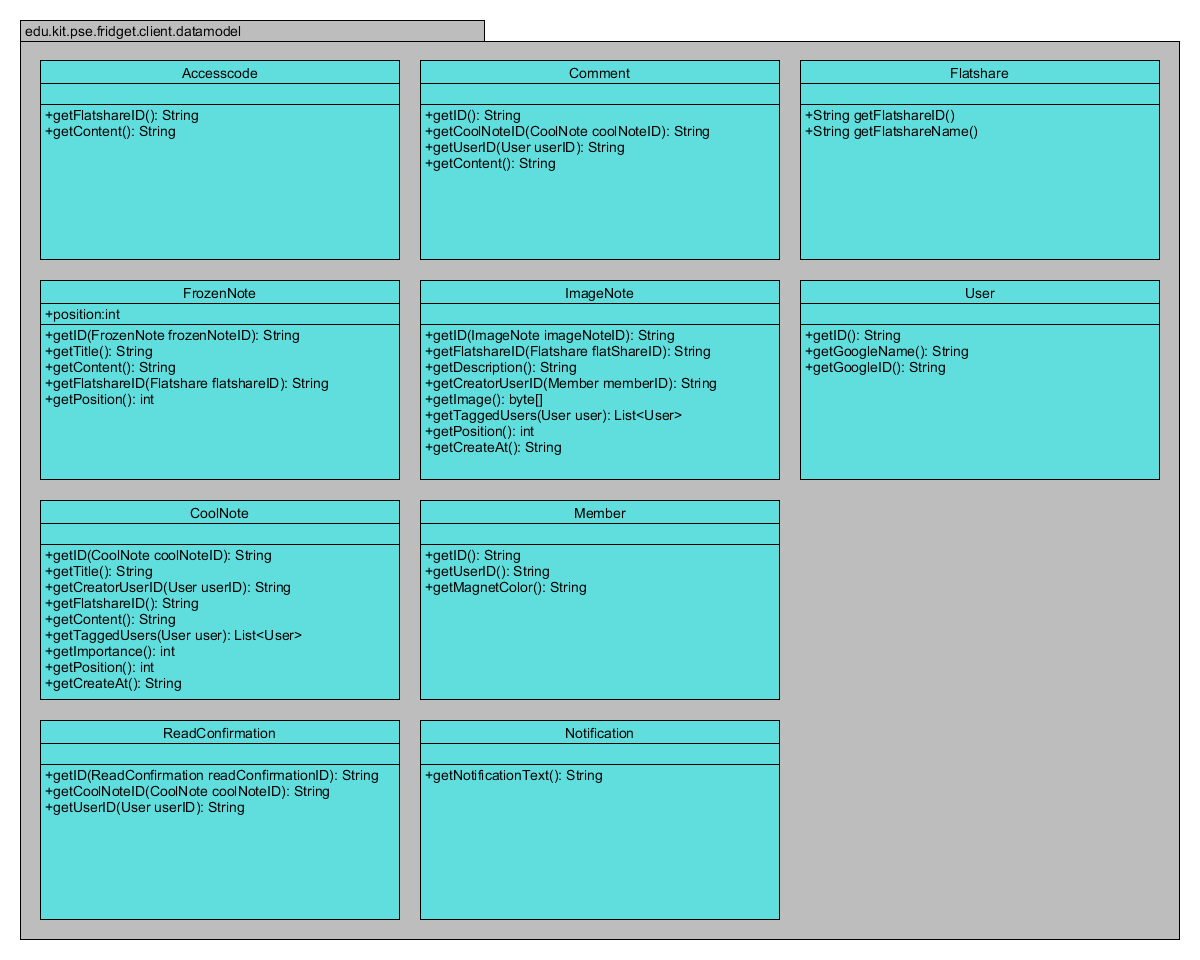
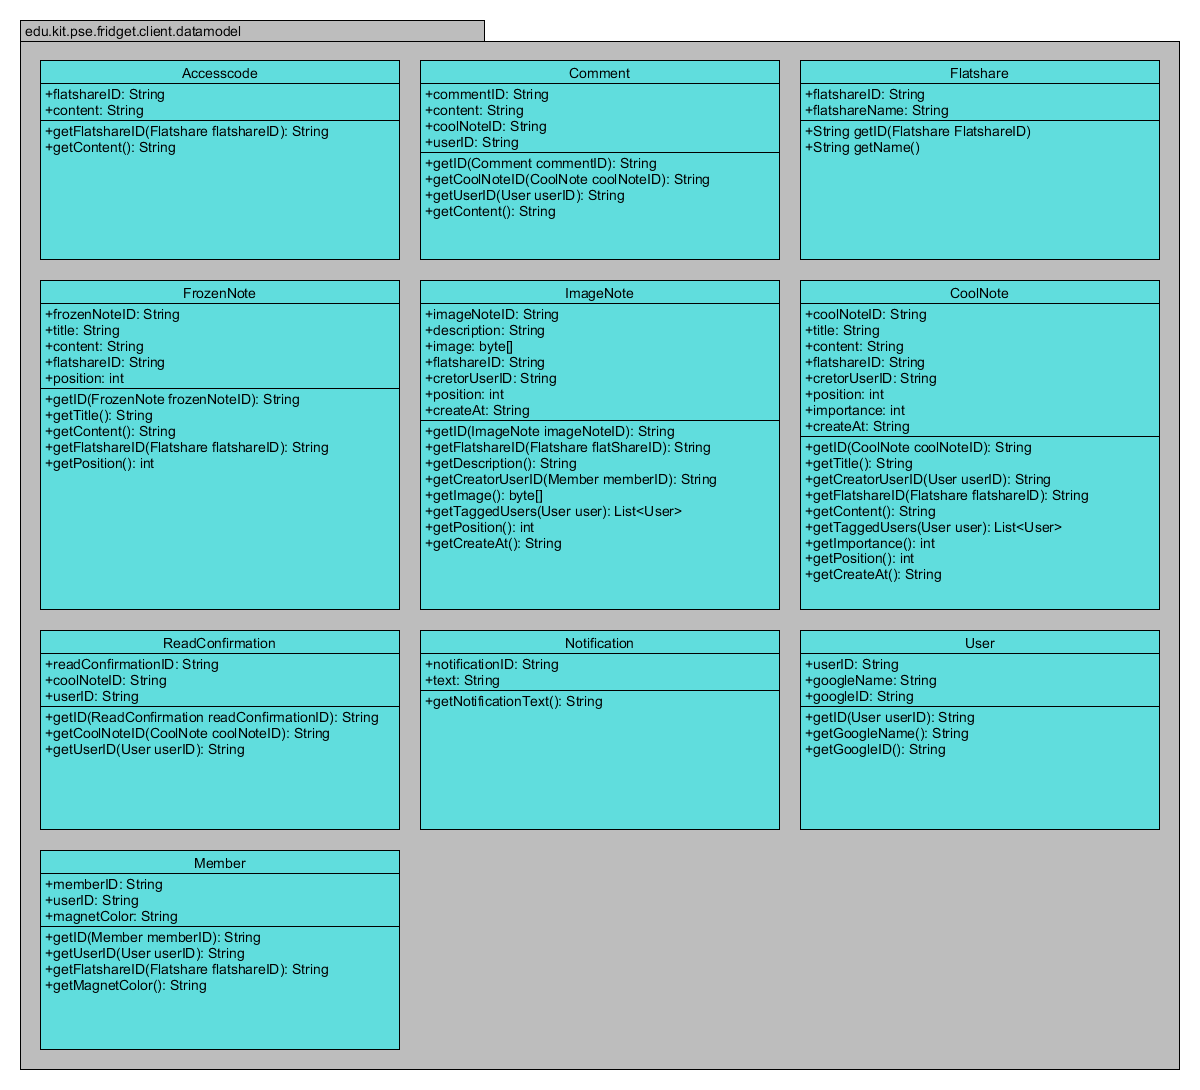
Datamodel document and diagram with attributes

diff --git a/documentation/Entwurf/klassen-des-models.tex b/documentation/Entwurf/klassen-des-models.tex
@@ -3,6 +3,15 @@
 
 	\textbf{Beschreibung} \\
 	\textit{Die Klasse Accesscode stellt der Access-Code, oder Zugangscode einer WG dar.} \\
+	
+	\textbf{Attribute}
+	\begin{itemize}
+		\item \textbf{flatshareID:} Die ID der WG zu der, die Accesscode gehört. \\
+		\textbf{Typ:} String
+
+		\item \textbf{content:} Der Inhalt der Accesscode.\\
+		\textbf{Typ:} String
+	\end{itemize}
 
 	\textbf{Methoden}
 	\begin{itemize}
@@ -18,6 +27,16 @@
 
 	\textbf{Beschreibung} \\
 	\textit{Die Klasse User stellt einen Benutzer der App dar.}\\
+	
+	\textbf{Attribute}
+	\begin{itemize}
+		\item \textbf{userID:} Die ID des Benutzers. \\
+		\textbf{Typ:} String
+		\item \textbf{googleName:} Der Google-Name des Benutzers. \\
+		\textbf{Typ:} String
+		\item \textbf{googleID:} Die Google-ID des Benutzers. \\
+		\textbf{Typ:} String
+	\end{itemize}
 
 	\textbf{Methoden}
 	\begin{itemize}
@@ -36,13 +55,28 @@
 
 	\textbf{Beschreibung} \\
 	\textit{Die Klasse Member stellt einen Mitglieder einer WG dar.} \\
+	
+	\textbf{Attribute}
+	\begin{itemize}
+		\item \textbf{memberID:} Die ID des Mitgliedschafts. \\
+		\textbf{Typ:} String
+		\item \textbf{userID:} Die ID des Benutzers, der Mitglied eine WG ist. \\
+		\textbf{Typ:} String
+		\item \textbf{magnetColor:} Die Magnetfarbe des Mitglieds. \\
+		\textbf{Typ:} String
+	\end{itemize}
 
 	\textbf{Methoden}
 	\begin{itemize}
-		\item\texttt{{public String getUserID()}}\\
+		\item\texttt{{public String getUserID(User userID)}}\\
 		\textit{Gibt die ID des Benutzers der App, der Mitglied einer WG ist, zurück.}\\
-		\item\texttt{{public String getID()}}\\
+		
+		\item\texttt{{public String getID(Member memberID)}}\\
 		\textit{Gibt ID der Mitgliedschaft der Benutzer zur WG zurück.}\\
+		
+		\item\texttt{{public String getFlatshareID(Flatshare flatshareID)}}\\
+		\textit{Gibt ID der Mitgliedschaft der Benutzer zur WG zurück.}\\
+		
 		\item\texttt{{public String getMagnetColor()}}\\
 		\textit{Gibt die Magnetfarbe des Benutzers zurück.}\\
 	\end{itemize}       
@@ -51,6 +85,14 @@
 
 	\textbf{Beschreibung} \\
 	\textit{Die Klasse Flatshare stellt eine WG dar, die in das App registriert ist.} \\
+	
+	\textbf{Attribute}
+	\begin{itemize}
+		\item \textbf{flatshareID:} Die ID der WG. \\
+		\textbf{Typ:} String
+		\item \textbf{flatshareName:} Der Name der WG. \\
+		\textbf{Typ:} String
+	\end{itemize}
 
 	\textbf{Methoden}
 	\begin{itemize}
@@ -64,6 +106,26 @@
 
 	\textbf{Beschreibung} \\
 	\textit{Die Klasse CoolNote stellt die Notiz der Art “Cool Note” dar, die aus einer Überschrift und schriftlichem Inhalt besteht. Cool Notes sind erstellbare, nicht editierbare, löschbare Notizen.} \\
+	
+	\textbf{Attribute}
+	\begin{itemize}
+		\item \textbf{coolNoteID:} Die ID der Cool Note. \\
+		\textbf{Typ:} String
+		\item \textbf{title:} Die Überschrift der Cool Note. \\
+		\textbf{Typ:} String
+		\item \textbf{content:} Der Inhalt der Cool Note. \\
+		\textbf{Typ:} String
+		\item \textbf{flatshareID:} Die ID der WG, zu der die Cool Note gehört. \\
+		\textbf{Typ:} String
+		\item \textbf{creatorUserID:} Die ID der Benutzer der die Cool Note erstellt hat. \\
+		\textbf{Typ:} String
+		\item \textbf{position:} Die Position der Cool Note. \\
+		\textbf{Typ:} int
+		\item \textbf{importance:} Die Wichtigkeit der Cool Note. \\
+		\textbf{Typ:} int
+		\item \textbf{createAt:} Das Erstelldatum der Cool Note.\\
+		\textbf{Typ:} String
+	\end{itemize}
 
 	\textbf{Methoden}
 	\begin{itemize}
@@ -108,7 +170,15 @@
 	
 	\textbf{Attribute}
 	\begin{itemize}
-		\item Position: Position der Frozen Note, die schon fest ist beim Erstellen der Pinnwand.\\
+		\item \textbf{frozenNoteID:} Die ID der Frozen Note. \\
+		\textbf{Typ:} String
+		\item \textbf{title:} Die Überschrift der Frozen Note. \\
+		\textbf{Typ:} String
+		\item \textbf{content:} Der Inhalt der Frozen Note. \\
+		\textbf{Typ:} String
+		\item \textbf{flatshareID:} Die ID der WG, zu der die Frozen Note gehört. \\
+		\textbf{Typ:} String
+		\item \textbf{position:} Position der Frozen Note, die schon fest ist beim Erstellen der Pinnwand.\\
 		\textbf{Typ:} int
 	\end{itemize}
 	
@@ -138,6 +208,14 @@
 	\textbf{Beschreibung} \\
 	\textit{Die Klasse Notification stellt die Benachrichtigung an den Benutzer über eine neue Cool Note dar.} \\
 	
+	\textbf{Attribute}
+	\begin{itemize}
+		\item \textbf{notificationID:} Die ID der Benachrichtigung. \\
+		\textbf{Typ:} String
+		\item \textbf{text:} Der Inhalt der Benachrichtigung. \\
+		\textbf{Typ:} String
+	\end{itemize}
+	
 	\textbf{Methoden}
 	\begin{itemize}
 		\item\texttt{{public String getNotificationText()}}\\
@@ -149,9 +227,21 @@
 	\textbf{Beschreibung} \\
 	\textit{Die Klasse Comment stellt einen Kommentar dar, der unter der Cool Note geschrieben werden kann.} \\
 	
+	\textbf{Attribute}
+	\begin{itemize}
+		\item \textbf{commentID:} Die ID des Kommentars. \\
+		\textbf{Typ:} String
+		\item \textbf{content:} Der Inhalt des Kommentars. \\
+		\textbf{Typ:} String
+		\item \textbf{coolNoteID:} Die ID der Cool Note, zu der der Kommentar gehört. \\
+		\textbf{Typ:} String
+		\item \textbf{userID:} Die ID des Benutzers, der den Kommentar geschrieben hat.\\
+		\textbf{Typ:} String
+	\end{itemize}
+	
 	\textbf{Methoden}
 	\begin{itemize}
-		\item\texttt{public String getID()}
+		\item\texttt{public String getID()}\\
 		\textit{Gibt die Kommentar-ID zurück}
 		
 		\item\texttt{{public String getUserID(User userID)}}\\
@@ -172,6 +262,24 @@
 
 	\textbf{Beschreibung} \\
 	\textit{Die Klasse ImageNote stellt die Notiz der Art “Cool Note” dar, die aus einer Überschrift und Bild besteht. Image Notes sind wie Cool Notes erstellbar, nicht editierbar und löschbar.} \\
+	
+	\textbf{Attribute}
+	\begin{itemize}
+		\item \textbf{imageNoteID:} Die ID der Image Note. \\
+		\textbf{Typ:} String
+		\item \textbf{description:} Die Beschreibung der Image Note. \\
+		\textbf{Typ:} String
+		\item \textbf{image:} Der Inhalt der Image Note. \\
+		\textbf{Typ:} byte[]
+		\item \textbf{flatshareID:} Die ID der WG, zu der die Image Note gehört. \\
+		\textbf{Typ:} String
+		\item \textbf{creatorUserID:} Die ID der Benutzer der die Image Note erstellt hat. \\
+		\textbf{Typ:} String
+		\item \textbf{position:} Die Position der Image Note. \\
+		\textbf{Typ:} int
+		\item \textbf{createAt:} Das Erstelldatum der Image Note.\\
+		\textbf{Typ:} String
+	\end{itemize}
 	
 	\textbf{Methoden}
 	\begin{itemize}
@@ -212,6 +320,16 @@
 
 	\textbf{Beschreibung} \\
 	\textit{Die Klasse ReadConfirmation stellt die Check-Box dar, das dem Benutzer ermöglicht, für sich selbst sichtbar zu machen, ob der Benutzer eine Cool Note gelesen hat.} \\
+	
+	\textbf{Attribute}
+	\begin{itemize}
+		\item \textbf{readConfirmationID:} Die ID der Check-Box. \\
+		\textbf{Typ:} String
+		\item \textbf{coolNoteID:} Die ID der Cool Note, die als gelesen oder ungelesen markiert wird. \\
+		\textbf{Typ:} String
+		\item \textbf{userID:} Die ID der Benutzer der die Check-Box benutzt. \\
+		\textbf{Typ:} String
+	\end{itemize}
 	
 	\textbf{Methoden}
 	\begin{itemize}
